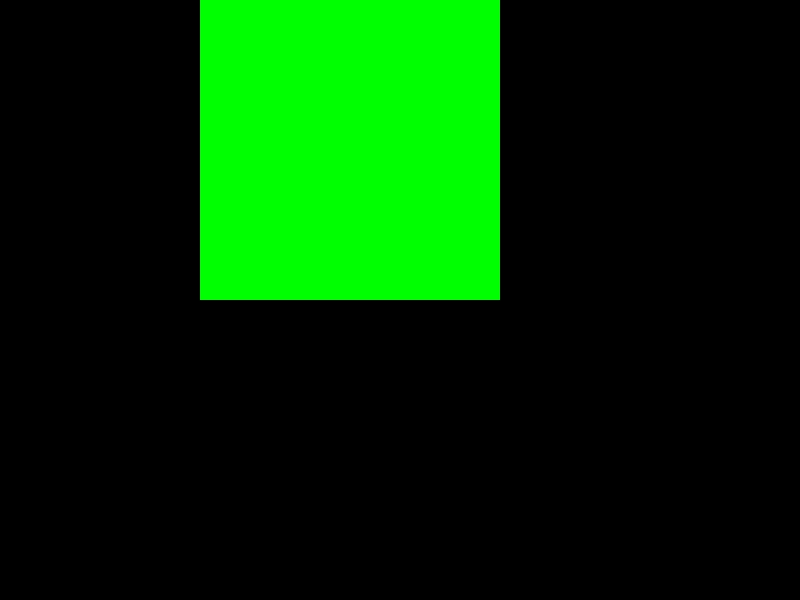
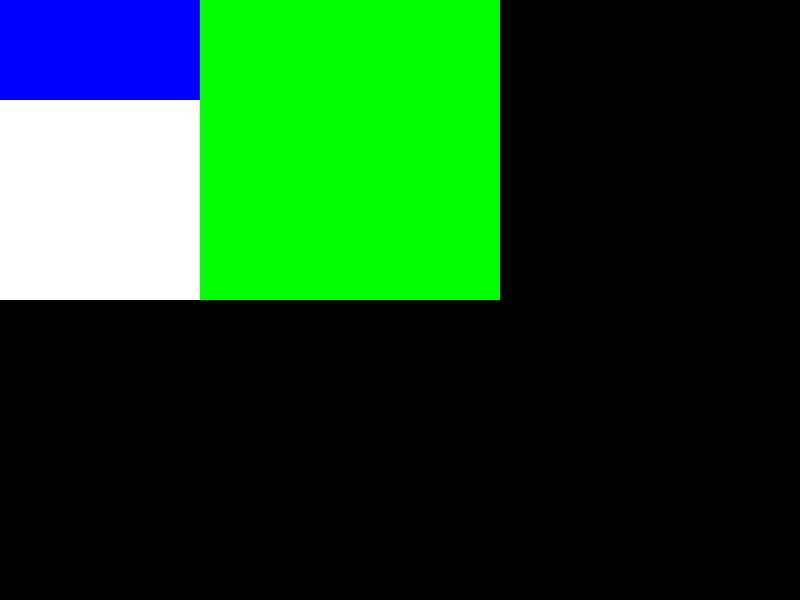
update: css selector match

Changed region(s): [[0.0, 0.0, 0.25, 0.51]]

diff --git a/computeCSS7.js b/computeCSS7.js
@@ -17,25 +17,58 @@ function addCSSRules(text) {
 function match(element, selector) {
   if (!selector || !element.attributes) 
     return false
-  
-  if (selector.charAt(0) == "#") {
-    const attr = element.attributes.filter(attr => attr.name === "id")[0]
-    if (attr && attr.value === selector.replace("#", ''))
-      return true
-  } else if (selector.charAt(0) == ".") {
-    const attr = element.attributes.filter(attr => attr.name === "class")[0]
-    if (attr) {
-      const attrClassArray = attr.value.split(' ')
-      for (let attrClass of attrClassArray) {
-        if (attrClass === selector.replace(".", '')) {
-          return true
-        }
+
+  let regClass = /(\.\w+)+/g
+  let resClass = selector.match(regClass)
+
+  let regId = /(#\w+)+/g
+  let resId = selector.match(regId)
+
+  if (resClass) {
+    let resClassArr = []
+    for (let i = 0; i < resClass.length; i ++) {
+      let tempArr = resClass[i].split('.')
+      for (let j = 1; j < tempArr.length; j ++) {
+        resClassArr.push(tempArr[j])
       }
     }
-  } else {
+    let classAttr = element.attributes.filter(attr => attr.name === "class")
+    let classAttrRes = []
+    // classAttr:  [ { name: 'class', value: 'c2 c3' } ]
+    if (classAttr && classAttr[0]) {
+      classAttrRes = classAttr[0]["value"].split(" ")
+    }
+    let tempFlag = null
+    for (let i = 0; i < resClassArr.length; i ++) {
+      tempFlag = false
+      let k = 0
+      for (; k < classAttrRes.length; k ++) {
+        if (classAttrRes[k] === resClassArr[i]) {
+          tempFlag = true
+          break
+        }
+      }
+      if (!tempFlag && k === classAttrRes.length) {
+        return false;
+      }
+    }
+  }
+  
+  if (resId && resId[0].charAt(0) == "#") { // id选择器有标识符#，因此可以出现在任意位置，需要用正则去匹配
+    const attr = element.attributes.filter(attr => attr.name === "id")[0]
+    if (attr && attr.value === resId[0].replace("#", '')) {
+      return true
+    } else {
+      return false
+    }
+  } else if(selector.charAt(0) !== "#" && selector.charAt(0) !== "."){ // 只需要判断选择器开头是不是 非 id 选择器标识符 # 或者 class 选择器标识符 .
     if (element.tagName === selector) {
       return true
+    } else {
+      return false
     }
+  } else if (resClass && resClass.length) {
+    return true
   }
   return false
 }
@@ -43,15 +76,28 @@ function match(element, selector) {
 function specificity(selector) {
   const p = [0, 0, 0, 0]
   const selectorParts = selector.split(" ")
+  let regClass = /(\.\w+)+/g
+  let resClass = selector.match(regClass)
+  if (resClass && resClass.length) {
+    for (let i = 0; i < resClass.length; i ++) {
+      let tempArr = resClass[i].split('.')
+      for (let j = 1; j < tempArr.length; j ++) {
+        p[2] ++
+      }
+    }
+  }
   for (let part of selectorParts) {
-    if (part.charAt(0) == "#") {
+
+    let regId = /(#\w+)+/g
+    let resId = part.match(regId)
+    if (resId && resId[0].charAt(0) == "#") {
       p[1] += 1
-    } else if (part.charAt(0) == ".") {
-      p[2] += 1
-    } else {
+    } else if (part.charAt(0) !== "#" && part.charAt(0) !== "."){
       p[3] += 1
     }
   }
+  console.log('selector', selector)
+  console.log('p', p)
   return p
 }
 

diff --git a/server.js b/server.js
@@ -9,31 +9,36 @@ const server = http.createServer((req, res) => {
   res.writeHead(200, { 'Content-Type': 'text/html' });
   res.end(
     `<html maaa=a >
-    <head>
-        <style>
-    #container{
-        width:500px;
-        height:300px;
-        display:flex;
-        background-color:rgb(255,255,255);
-    }
-    #container #myid{
-      width:200px;
-      height:100px;
-      background-color:rgb(255,0,0)
-    }
-    #container .c1{
-      flex:1;
-      background-color:rgb(0,255,0)
-    }
-        </style>
-    </head>
-    <body>
-        <div id="container">
-          <div id="myid"></div>
-          <div class="c1"></div>
-        </div>
-    </body>
+		<head>
+		  <style>
+			#container{
+			  width:500px;
+			  height:300px;
+			  display:flex;
+			  background-color:rgb(255,255,255);
+			}
+			#container #myid{
+				width:200px;
+				height:100px;
+				background-color:rgb(255,0,0)
+			}
+			#container .c1{
+				flex:1;
+				background-color:rgb(0,255,0)
+			}
+			#container .c2#myid.c3{
+				width:200px;
+				height:100px;
+				background-color:rgb(0,0,255)
+			}
+		</style>
+		</head>
+		<body>
+		  <div id="container">
+		    <div id="myid" class="c2 c3"></div>
+		    <div class="c1"></div>
+		  </div>
+		</body>
     </html>`);
 });
 

diff --git a/layout4.js b/layout4.js
@@ -51,7 +51,7 @@ function layout(element) {
   if (!style.flexWrap || style.flexWrap === 'auto')
     style.flexWrap = 'nowrap'
   if (!style.alignContent || style.alignContent === 'auto')
-    style.alignContent = 'center'
+    style.alignContent = 'stretch'
 
   let
     mainSize, // 主轴size width / height
@@ -165,8 +165,8 @@ function layout(element) {
 
         // 创建新行
         flexLine = []
-        flexLines.push(flexLine)
         flexLine.push(item)
+        flexLines.push(flexLine)
 
         mainSpace = style[mainSize]
         crossSpace = 0
@@ -213,9 +213,10 @@ function layout(element) {
       const mainSpace = items.mainSpace
       let flexTotal = 0
 
+      let itemStyle = null
       for (let i = 0; i < items.length; i++) {
         const item = items[i]
-        const itemStyle = getStyle(item)
+        itemStyle = getStyle(item)
 
         if ((itemStyle.flex !== null) && (itemStyle.flex !== (void 0))) {
           flexTotal += itemStyle.flex

diff --git a/render2.js b/render2.js
@@ -14,7 +14,7 @@ function render(viewport, element) {
 
   if (element.children) {
     for (let child of element.children) {
-      console.log('child', child)
+      // console.log('child', child)
       render(viewport, child)
     }
   }
